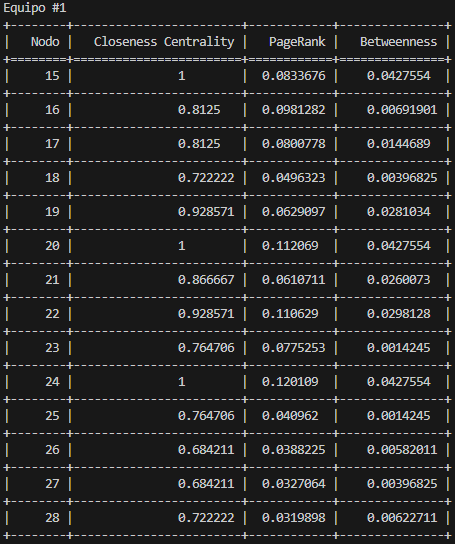
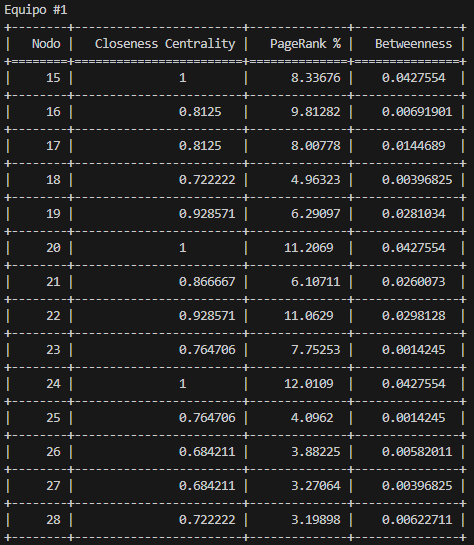
se arreglo el valor de PageRank para que salga %

Changed region(s): [[0.0, 0.0, 1.0, 1.0]]

diff --git a/Network.py b/Network.py
@@ -19,12 +19,6 @@ e2 = list(G.nodes())[14:G.number_of_nodes()]
 se1 = G.subgraph(e1)
 se2 = G.subgraph(e2)
 
-# Imprimir información básica sobre el grafo
-# plt.figure()
-# nx.draw(G, with_labels=True, node_color='skyblue', node_size=500, font_size=10)
-# plt.figure()
-# nx.draw(se2, with_labels=True, node_color='skyblue', node_size=500, font_size=10)
-
 # preliminary results
 # Equipo 1
 print ("+ + + + + + + + + + + + + + +")
@@ -103,9 +97,9 @@ Pagerank = nx.pagerank(se1)
 betweenness = nx.betweenness_centrality(se1)
 data = []
 for node in se1.nodes():
-     data.append([node,Closeness[node],Pagerank[node],betweenness[node]])
+     data.append([node,Closeness[node],100*Pagerank[node],betweenness[node]])
 data_sorted = sorted(data,key=lambda x: x[0])
-headers = ["Nodo", "Closeness Centrality", "PageRank","Betweenness"]
+headers = ["Nodo", "Closeness Centrality", "PageRank %","Betweenness"]
 print(tabulate(data_sorted, headers=headers, tablefmt="grid"))
 
 pos = nx.spring_layout(se1)
@@ -126,30 +120,10 @@ Pagerank = nx.pagerank(se2)
 betweenness = nx.betweenness_centrality(se2)
 data = []
 for node in se2.nodes():
-     data.append([node,Closeness[node],Pagerank[node],betweenness[node]])
+     data.append([node,Closeness[node],100*Pagerank[node],betweenness[node]])
 data_sorted = sorted(data,key=lambda x: x[0])
-headers = ["Nodo", "Closeness Centrality", "PageRank","Betweenness"]
+headers = ["Nodo", "Closeness Centrality", "PageRank %","Betweenness"]
 print(tabulate(data_sorted, headers=headers, tablefmt="grid"))
-
-
-# for i, valor in Closeness.items(): 
-#     print(f"Node {i} | {valor}")
-#     print ("- - - - - - - - - - - - - - -")
-# print ("- - - - - - - - - - - - - - -")
-# print("Node    | Pagerank ")
-# print ("- - - - - - - - - - - - - - -")
-
-# for i, valor in Pagerank.items(): 
-#     print(f"Node {i}  | {valor}")
-#     print ("- - - - - - - - - - - - - - -")
-
-# print ("- - - - - - - - - - - - - - -")
-# print("Node    | Betweenness ")
-# print ("- - - - - - - - - - - - - - -")
-
-# for i, valor in betweenness.items():
-#     print(f"Node {i} | {valor}")
-#     print ("- - - - - - - - - - - - - - -")
 
 
 pos = nx.spring_layout(se2)
